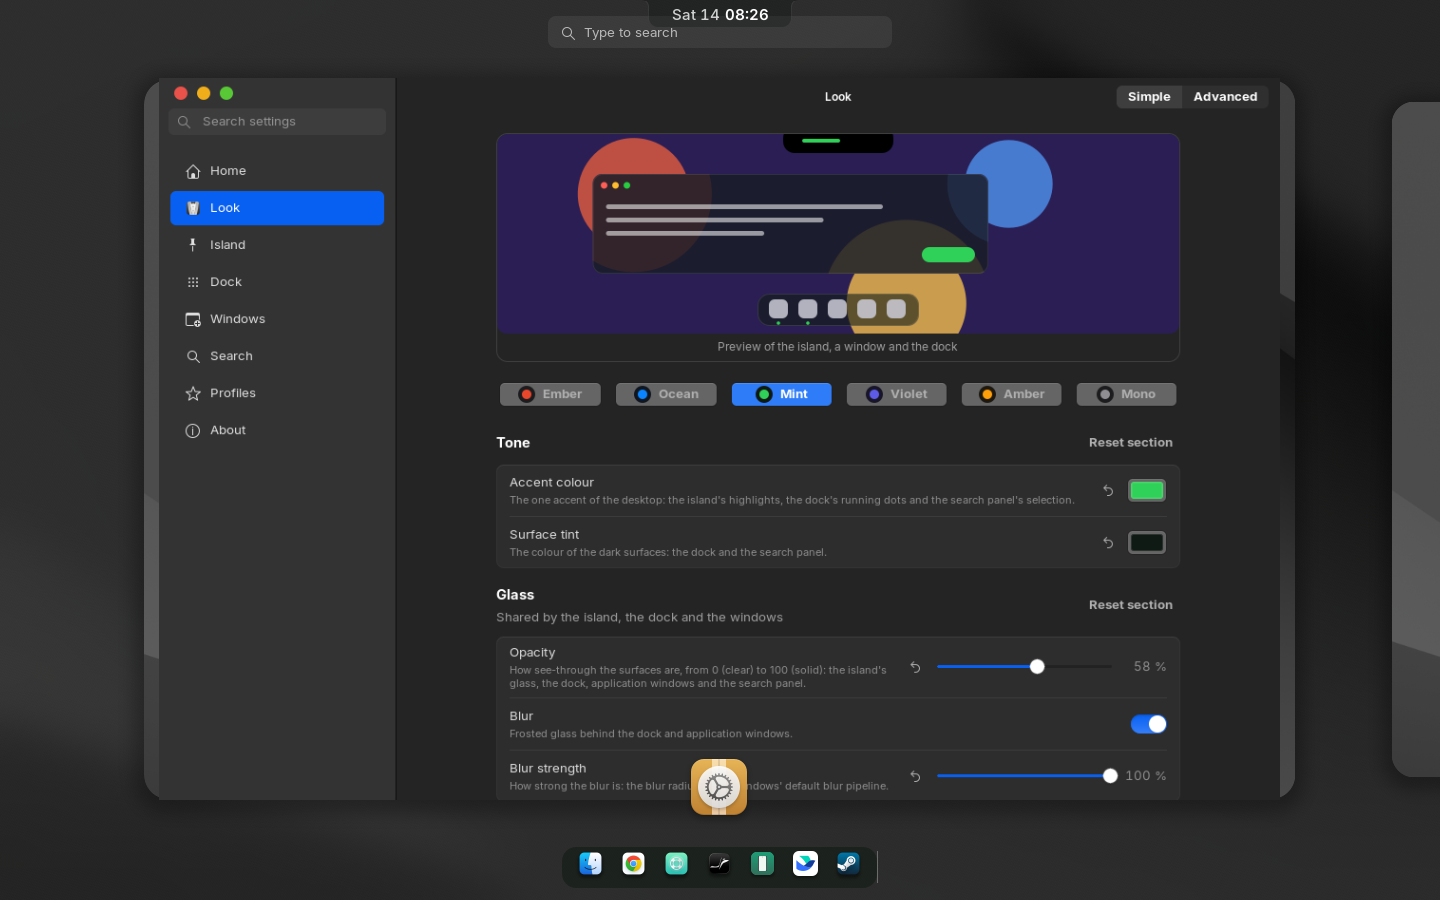
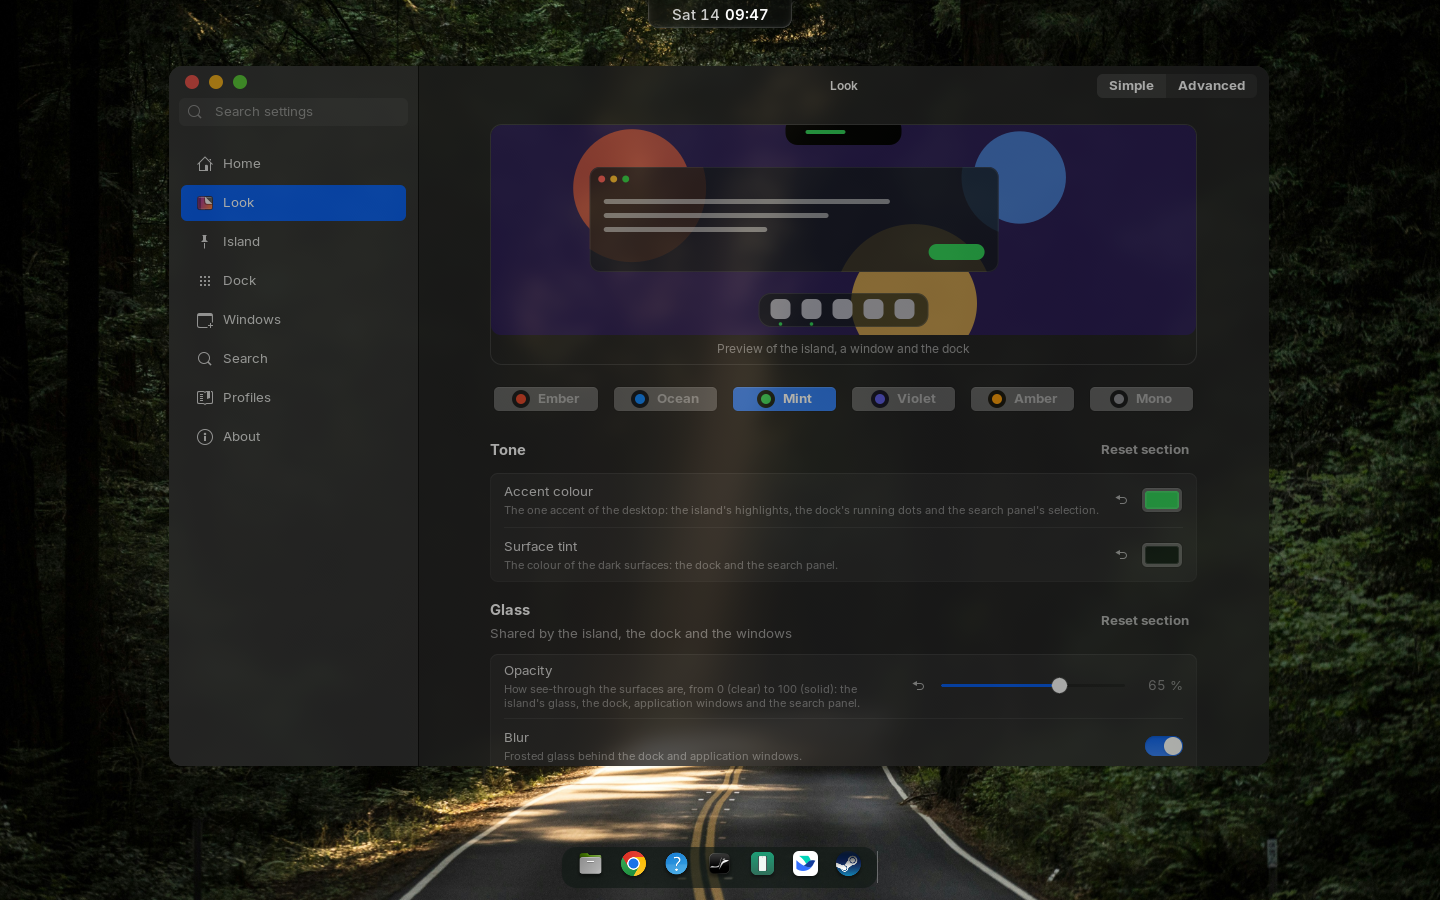
Control Panel: round all four window corners (unless maximized, full screen or tiled), active profile card tint fills the card; screenshots without the Overview

diff --git a/control/src/profilesPage.ts b/control/src/profilesPage.ts
@@ -160,7 +160,7 @@ export function profilesPage(engine: ProfileEngine, ctx) {
     [newBtn, importBtn, backupBtn].forEach(b => actions.append(b));
 
     const card = (p, active: boolean, modified: boolean) => {
-        const box = new Gtk.Box({orientation: Gtk.Orientation.VERTICAL, spacing: 8, margin_top: 14, margin_bottom: 14, margin_start: 14, margin_end: 14, css_classes: active ? ['niro-card-active'] : []});
+        const box = new Gtk.Box({orientation: Gtk.Orientation.VERTICAL, spacing: 8, margin_top: 14, margin_bottom: 14, margin_start: 14, margin_end: 14});
         const head = new Gtk.Box({spacing: 8});
         head.append(new Gtk.Label({label: p.name, xalign: 0, hexpand: true, css_classes: ['title-4'], ellipsize: 3, max_width_chars: 20}));
         if (active) head.append(new Gtk.Label({label: modified ? 'Active · modified' : 'Active', css_classes: [modified ? 'warning' : 'success', 'caption-heading']}));
@@ -181,7 +181,7 @@ export function profilesPage(engine: ProfileEngine, ctx) {
         more.update_property([Gtk.AccessibleProperty.LABEL], [`More actions for ${p.name}`]);
         row.append(more);
         box.append(row);
-        const frame = new Gtk.Frame({child: box, css_classes: ['niro-card']});
+        const frame = new Gtk.Frame({child: box, css_classes: active ? ['niro-card', 'niro-card-active'] : ['niro-card']});
         return frame;
     };
 

diff --git a/control/src/window.ts b/control/src/window.ts
@@ -24,6 +24,8 @@ const MODULES = [
 
 const CSS = `
 .niro-window { background-color: alpha(@window_bg_color, 0.93); }
+/* round every corner of the window itself: the shell's corner effect skips libadwaita apps */
+window.niro-window:not(.maximized):not(.fullscreen):not(.tiled), window.niro-window.csd:not(.maximized):not(.fullscreen):not(.tiled) { border-radius: 14px; }
 .niro-sidebar { background-color: alpha(@sidebar_bg_color, 0.86); }
 .niro-window .boxed-list, .niro-window preferencesgroup > box > box > list { background-color: alpha(@card_bg_color, 0.88); }
 .niro-subnav { background-color: alpha(@sidebar_bg_color, 0.6); }
